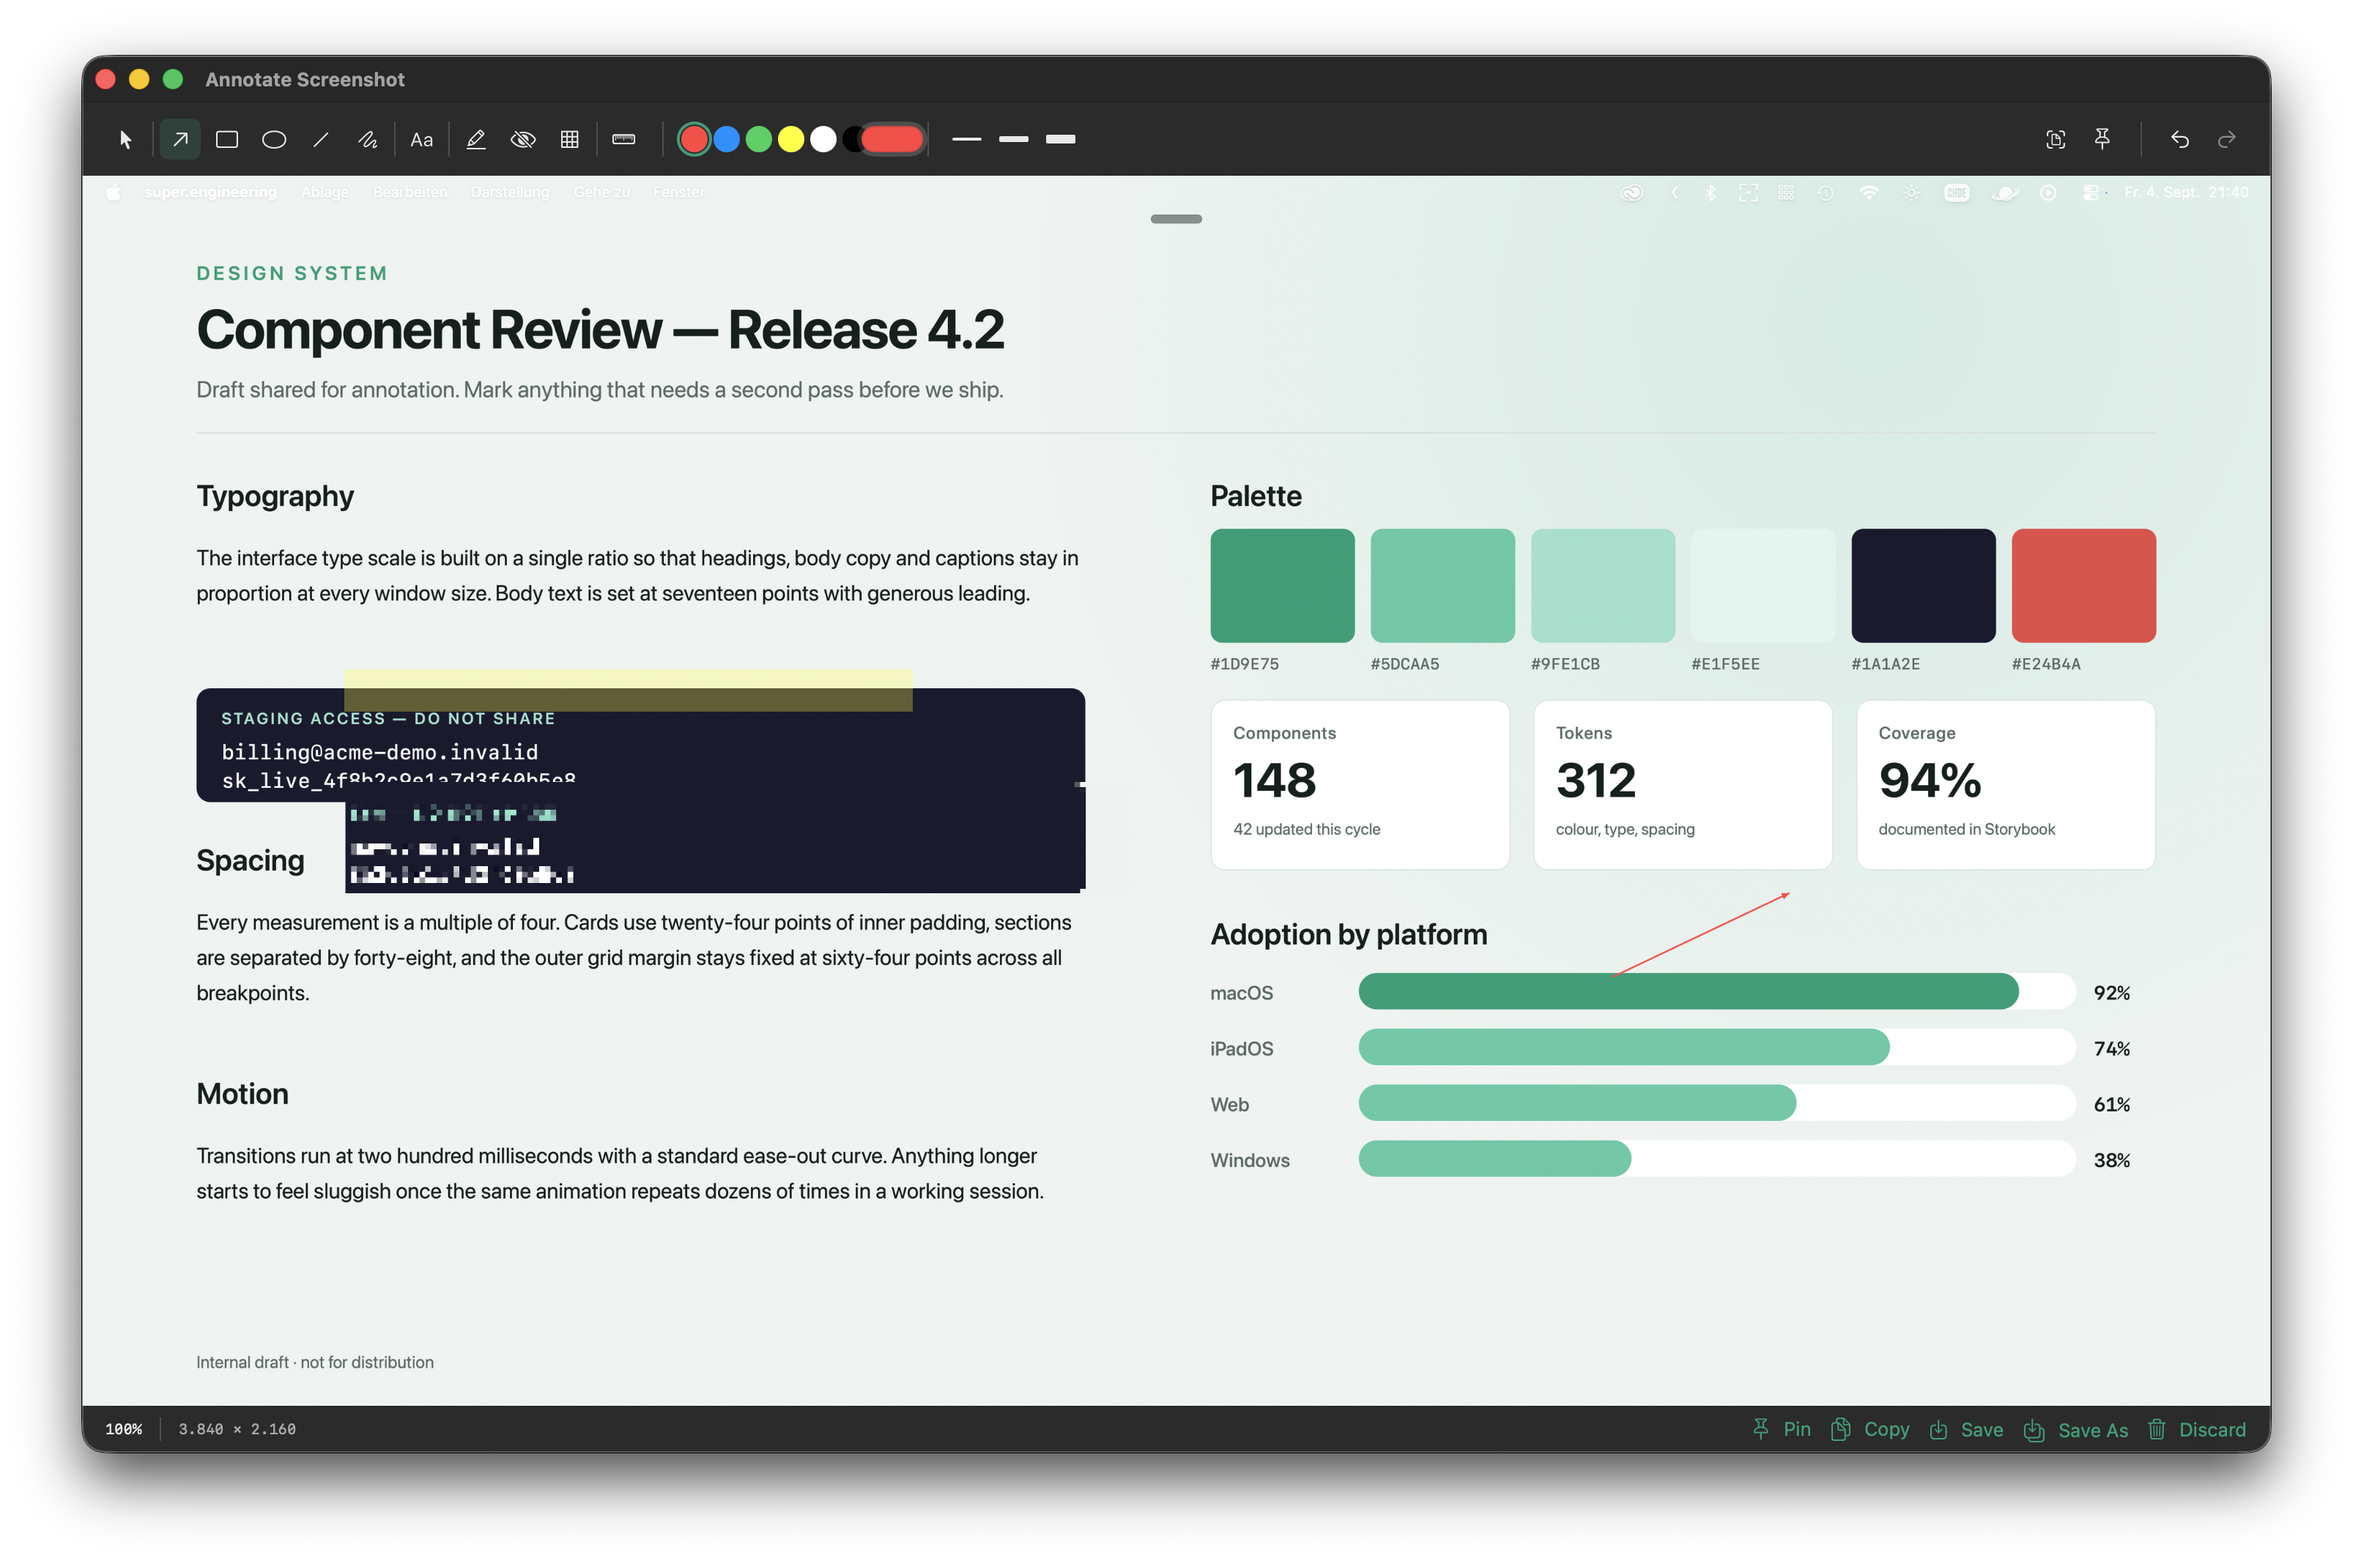
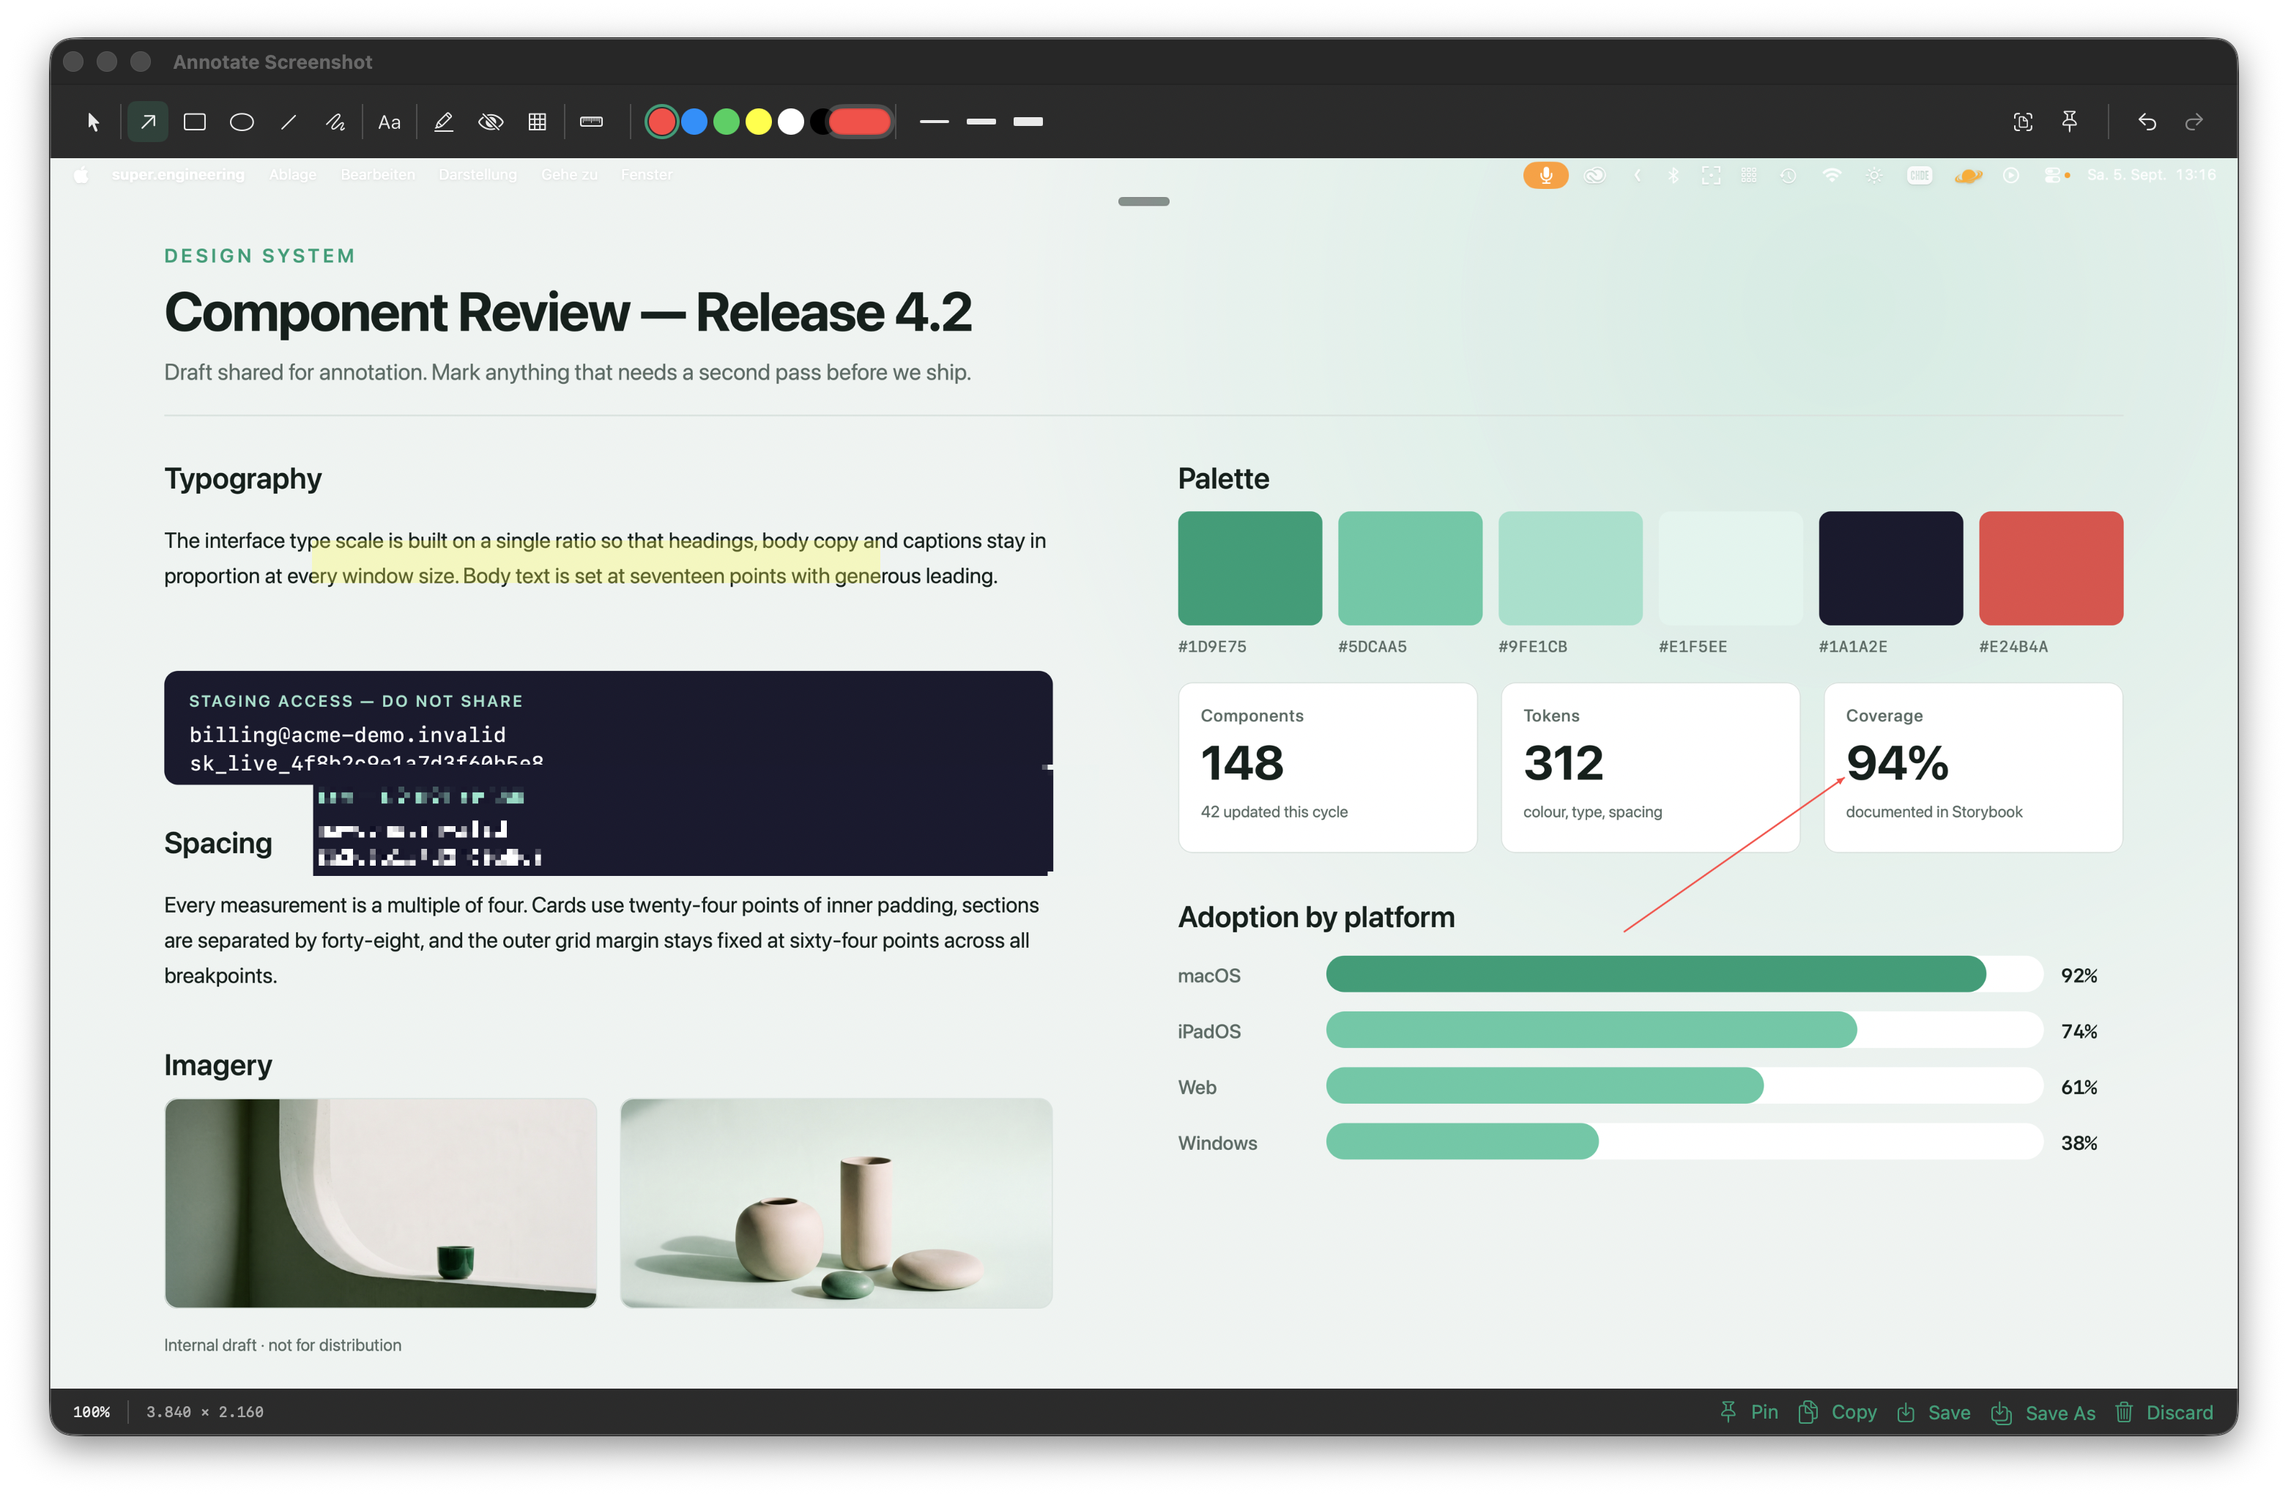
Put the annotations back where the canvas moved them
The three strokes in 01_annotate are measured as fractions of the editor
window, so they depend on how the demo canvas is laid out. When the Imagery
section took the place of the Motion paragraph, the highlight slid onto the
edge of the credentials box and the arrow ended in empty space between the
chart and the cards — pointing at nothing, on the one screenshot that is the
store listing's hook.

Re-measured against the current canvas: the highlight sits on a line of body
copy again and the arrow lands on the 94% figure. All three annotations now
fall in the bright half of the shot rather than under the darkened foot.

Both motifs were recaptured, so they show the canvas with its Imagery section.

Records what the attempt at the three missing motifs turned up: the hotkeys do
fire — Cmd-Shift-6 lays down two selection overlays, one per screen — but no
"Extracted Text" window follows the drag, the loupe is absent from its capture,
and Pin produces no pinned window. The capture machine has two displays while
the full-screen motifs record display 1; that is the first thing to check next.

Claude-Session: https://claude.ai/code/session_01YSPzzMMKApzc1Tvcs5bFWH

diff --git a/AppStore/README.md b/AppStore/README.md
@@ -76,6 +76,19 @@ beide Punkte hängen als offene Aufgaben in [CHECKLISTE.md](CHECKLISTE.md).
 | — | Farblupe | die Werkzeugtiefe | `highlight` | dunkel | Bildschirm | offen |
 | — | Angeheftetes Bild | der Alltag | `frame-top` | hell | Bildschirm | offen |
 
+**Was am 2026-09-05 über die drei offenen Motive herauskam.** Es liegt nicht an den
+Hotkeys: `⇧⌘6` legt nachweislich zwei Auswahl-Overlays an (`layer=1000`, eines je
+Bildschirm). Danach reißt es ab — nach dem Ziehen erscheint kein Fenster „Extracted
+Text", auch nicht bei isoliertem Nachstellen mit laufender Kulisse und langen Wartezeiten.
+`04_colour` liefert eine Aufnahme, auf der die Lupe fehlt, und der Klick auf *Pin* in der
+Fußleiste des Editors erzeugt kein angeheftetes Fenster.
+
+**Ein Verdacht, der noch zu prüfen ist:** Die Aufnahmemaschine hat **zwei Bildschirme**
+(`0,0,1920,1080` und `-1920,0,1920,1080`). Die Overlays entstehen auf beiden, die
+Vollbildmotive nehmen aber Display 1 auf, und die Züge des Skripts zielen auf dessen
+Koordinaten. Wer das weiterverfolgt, prüft zuerst, auf welchem Bildschirm die Panels
+tatsächlich landen — mit einem zweiten Bildschirm ist das Skript nie gelaufen.
+
 Apple verlangt mindestens ein Bild; zwei tragen den Eintrag, drei bis fünf wären besser.
 Wer nachliefert, trägt das Motiv in `tools/shots.json` ein — `StoreAssetTests` verlangt
 dann von selbst Rohaufnahme und Text dazu.
